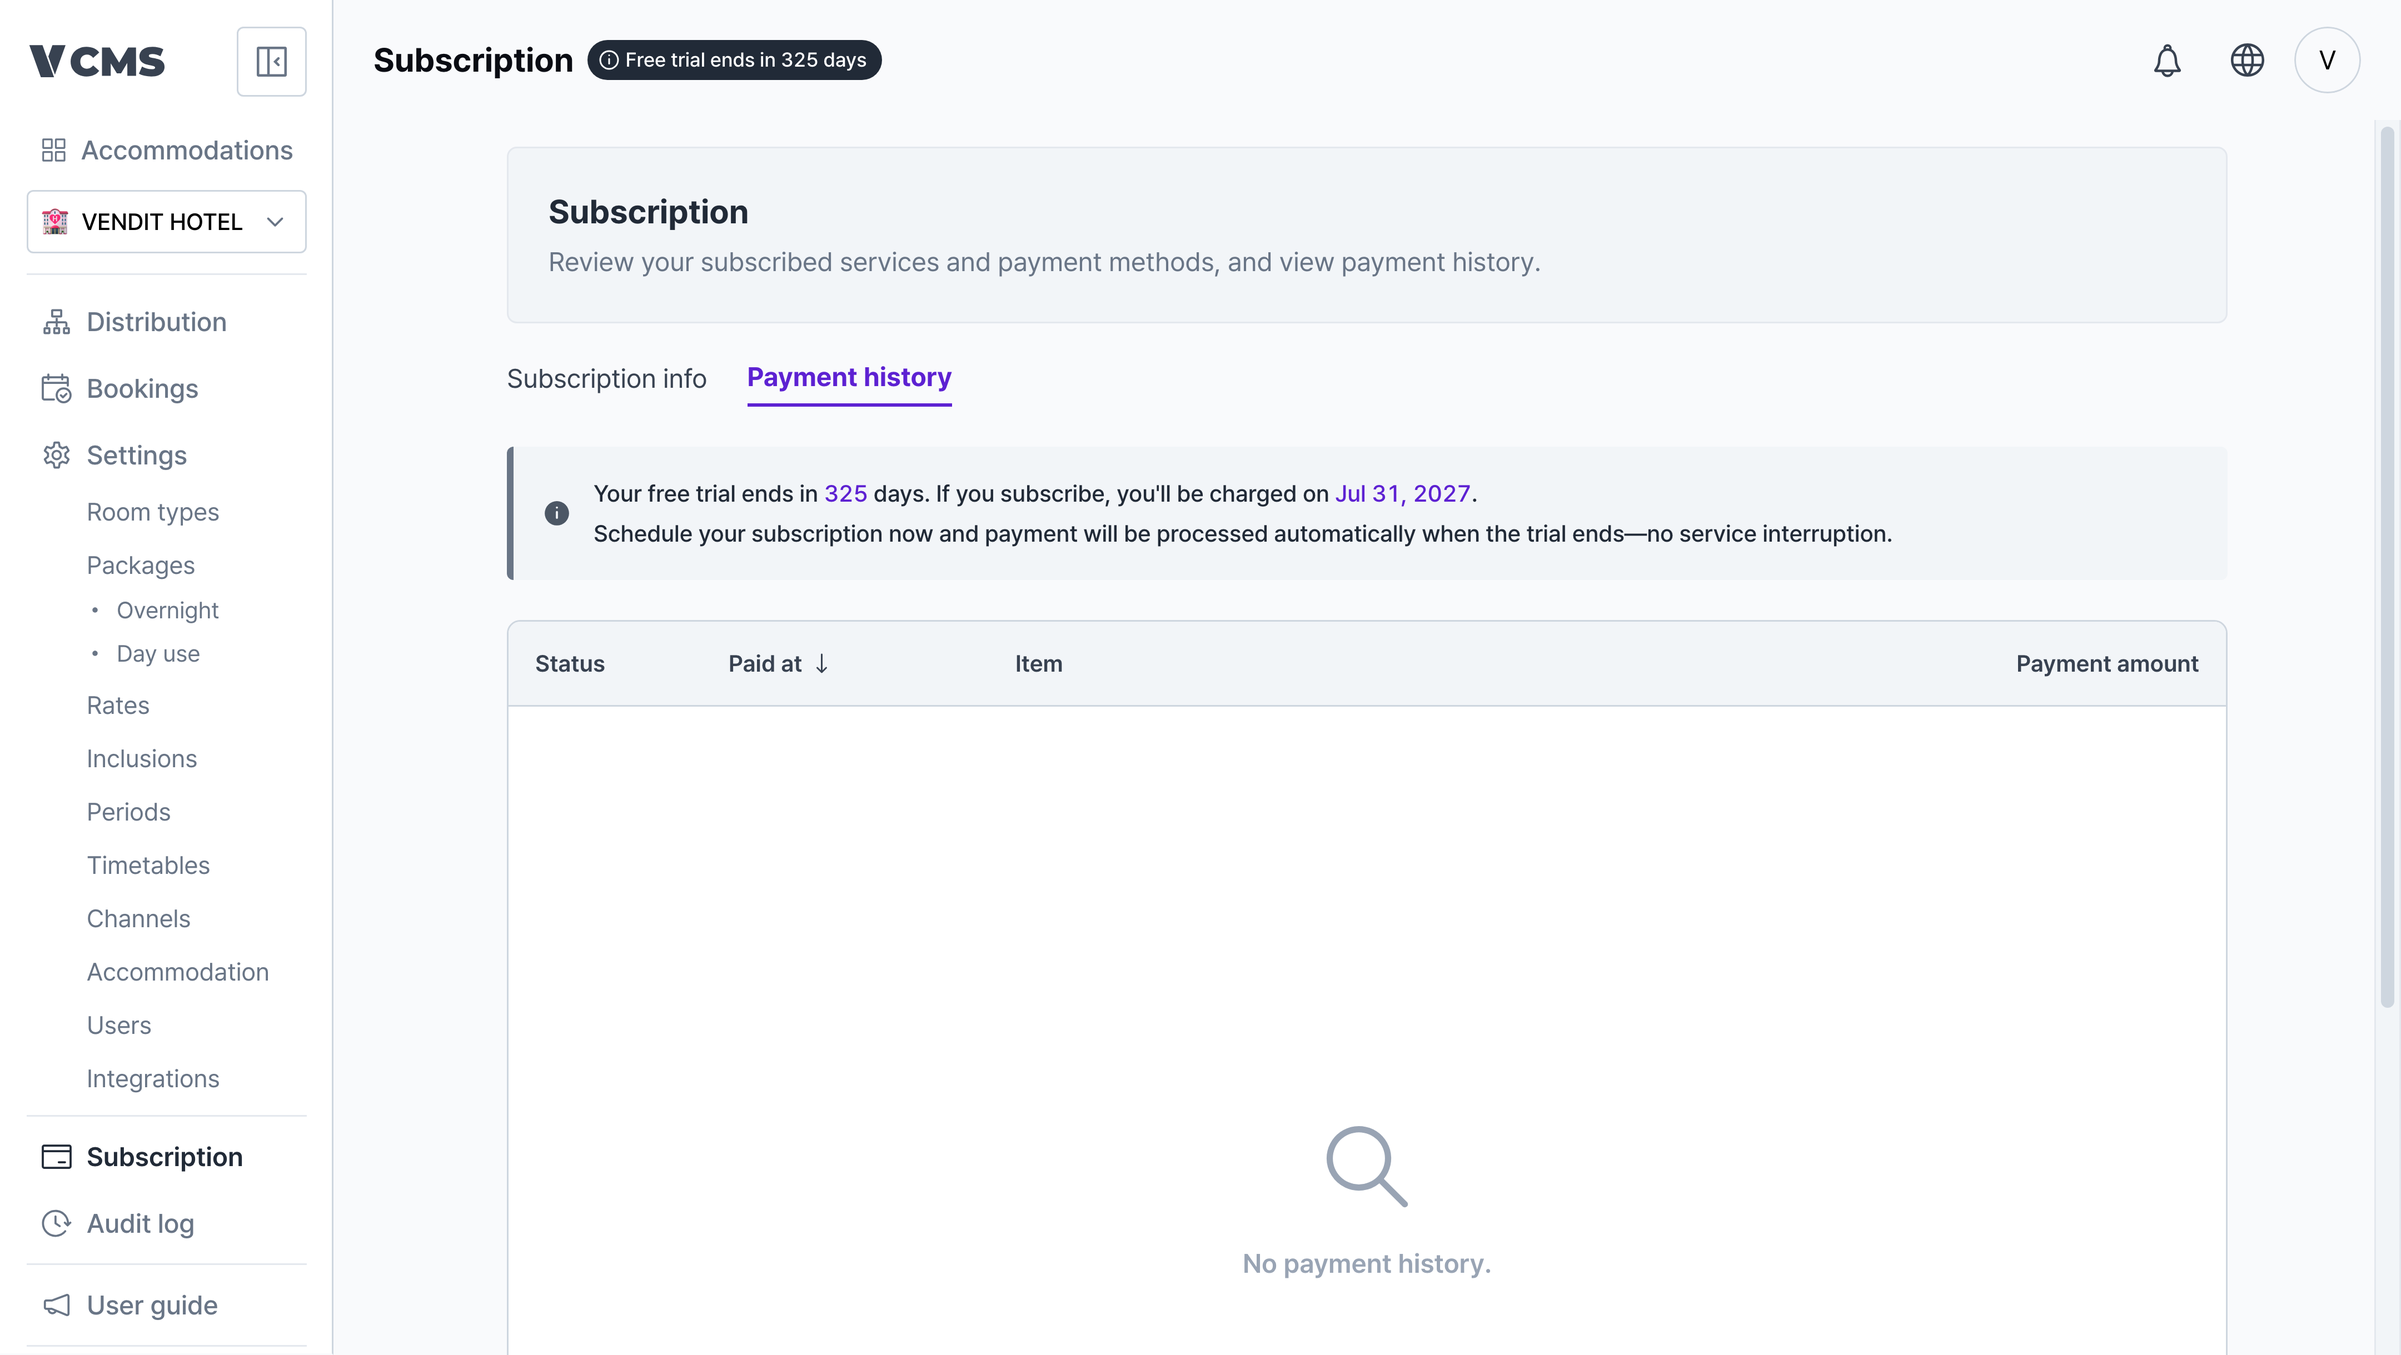
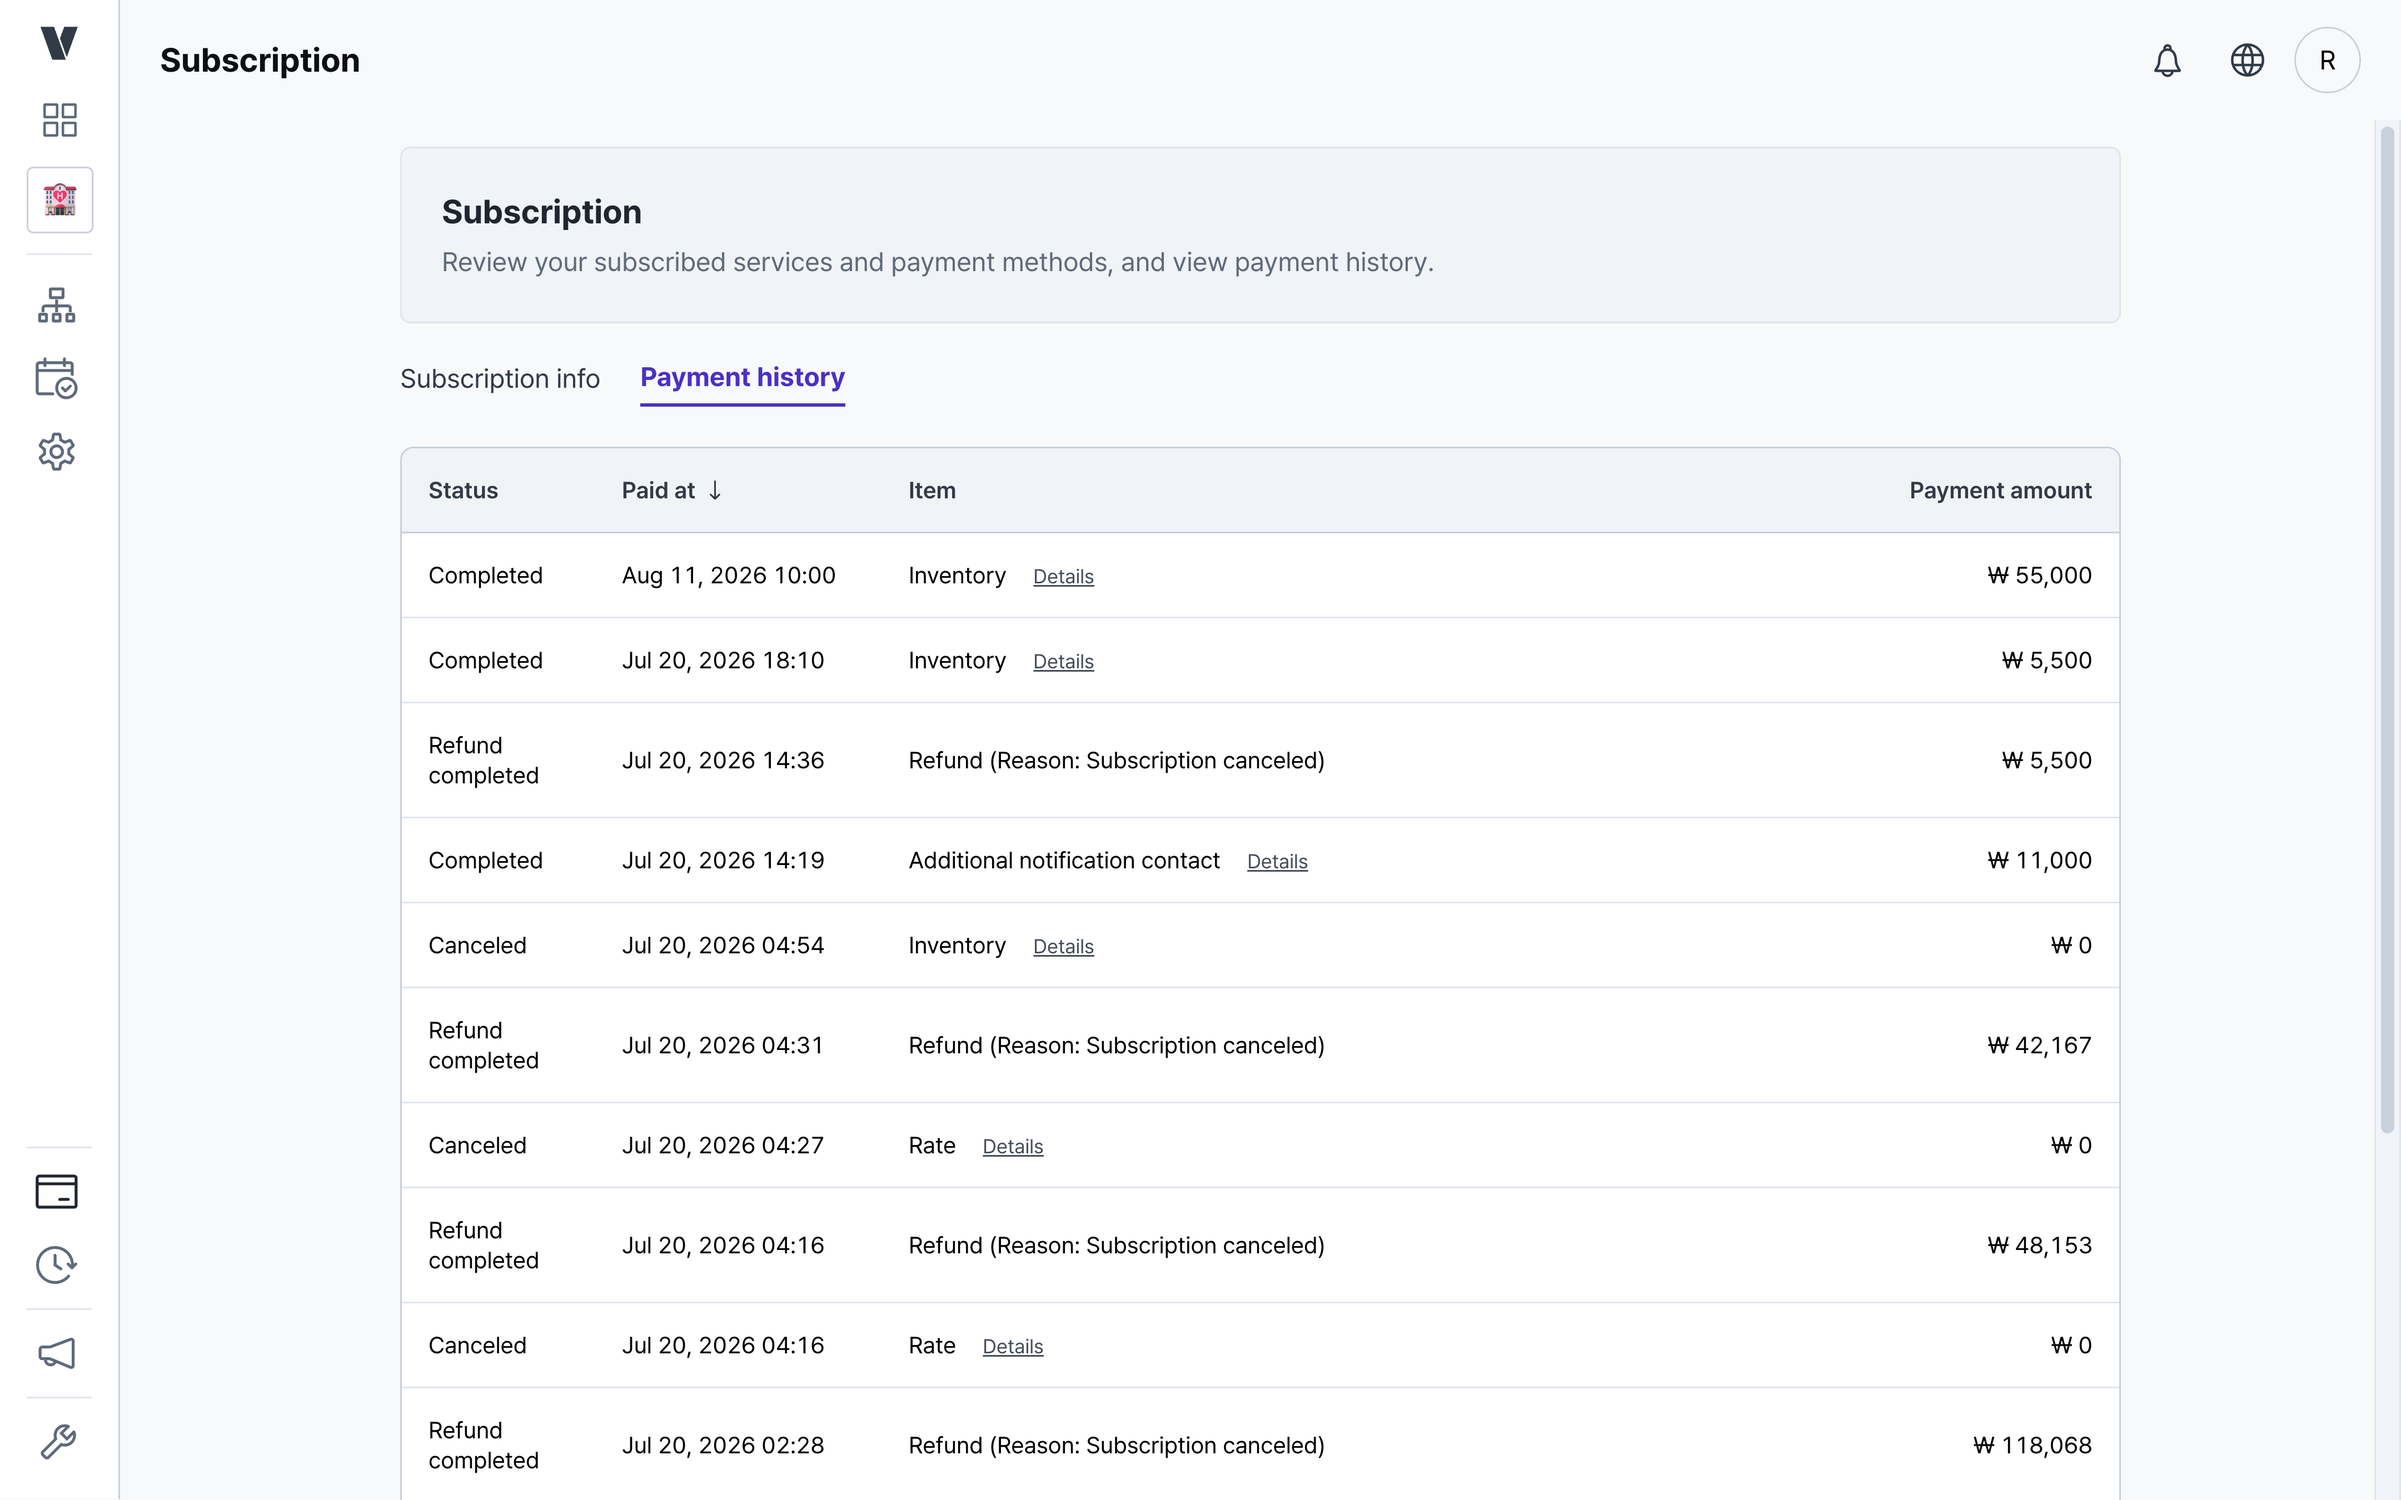
docs(en): shoot the subscription screens on the development server
VENDIT HOTEL is on a free trial, so its subscription page has no details
modal, no payment card and no payment history. Dean opened a development
account that is actually subscribed, and these came from there:

    구독-서비스구독-2        -> en-subscription-service
    Subscription-Register-Card -> en-subscription-payment-method
    구독-결제일변경          -> en-subscription-change-payment-date
    구독-결제내역-상세       -> en-subscription-history-detail
    en-subscription / en-subscription-history  reshot against a live subscription

The DEVELOPMENT badge is hidden before the shutter, and the card issuer is
blurred like every other piece of personal data. Nothing was saved: the
modals were opened and photographed, never confirmed.

The sidebar collapses in every modal shot. That is the app's own behaviour
when a dialog opens, and the Korean originals show the same thing.

Three are still missing. 구독 상세 정보 and 구독 관리 need an account with
Inventory & rate actually subscribed, and this one has it under Available
services. 구독-서비스구독-연간결제 needs an annual payment toggle that the
current build's Service subscription modal does not have.

cdp_capture gains ATTACH mode, which drives a window someone else logged
into instead of launching its own. It has to call Page.bringToFront first:
a background tab accepts navigation and JS but swallows real mouse events,
which is why the first attach run came back with every modal shut.

Claude-Session: https://claude.ai/code/session_0174Xsm4qtXTo7DBJ7dRfTh6

diff --git a/scripts/cdp_capture.py b/scripts/cdp_capture.py
@@ -29,6 +29,10 @@ import websockets  # type: ignore
 CHROME = "/Applications/Google Chrome.app/Contents/MacOS/Google Chrome"
 PROFILE = os.path.expanduser(os.environ.get("VCMS_CAPTURE_PROFILE", "~/.vcms-capture-profile"))
 PORT = int(os.environ.get("CDP_PORT", "9333"))
+# ATTACH=1 이면 크롬을 새로 띄우지 않고 이미 열려 있는 창에 붙는다.
+# Dean 이 직접 로그인해 놓은 창(개발 서버 등)을 그대로 쓰려고 있다.
+ATTACH = os.environ.get("ATTACH") == "1"
+TAB_MATCH = os.environ.get("TAB_MATCH", "")
 WIDTH = int(os.environ.get("WIN_W", "1440"))
 HEIGHT = int(os.environ.get("WIN_H", "900"))
 SCALE = int(os.environ.get("SCALE", "3"))
@@ -107,10 +111,13 @@ def page_ws():
     import urllib.request
     with urllib.request.urlopen(f"http://127.0.0.1:{PORT}/json/list") as r:
         targets = json.load(r)
-    for t in targets:
-        if t.get("type") == "page":
-            return t["webSocketDebuggerUrl"]
-    raise SystemExit("page 타깃을 못 찾았다")
+    pages = [t for t in targets if t.get("type") == "page"]
+    if TAB_MATCH:
+        pages = [t for t in pages
+                 if TAB_MATCH in t.get("url", "") or TAB_MATCH in t.get("title", "")]
+    if not pages:
+        raise SystemExit(f"page 타깃을 못 찾았다 (TAB_MATCH={TAB_MATCH!r})")
+    return pages[0]["webSocketDebuggerUrl"]
 
 
 class CDP:
@@ -178,11 +185,17 @@ async def run(jobs, outdir):
         cdp = CDP(ws)
         await cdp.send("Page.enable")
         await cdp.send("Runtime.enable")
+        if ATTACH:
+            # 백그라운드 탭은 실제 마우스 이벤트를 받아도 아무 일이 없다. 앞으로 꺼내야 한다.
+            await cdp.send("Page.bringToFront")
+            await asyncio.sleep(0.4)
+            await cdp.send("Emulation.setDeviceMetricsOverride", width=WIDTH, height=HEIGHT,
+                           deviceScaleFactor=SCALE, mobile=False)
         last_url = None
         for job in jobs:
             name = job["name"]
             try:
-                if job["url"] != last_url or job.get("reload", True):
+                if job.get("url") and (job["url"] != last_url or job.get("reload", True)):
                     await cdp.send("Page.navigate", url=job["url"])
                     await asyncio.sleep(job.get("load", 4.0))
                     last_url = job["url"]
@@ -248,6 +261,8 @@ async def run(jobs, outdir):
             except Exception as e:
                 failed.append((name, str(e)[:120]))
                 print(f"  FAIL {name}  {e}")
+        if ATTACH:
+            await cdp.send("Emulation.clearDeviceMetricsOverride")
     return done, failed
 
 
@@ -255,15 +270,16 @@ def main():
     jobs = json.load(open(sys.argv[1], encoding="utf-8"))
     outdir = sys.argv[2] if len(sys.argv) > 2 else "/tmp/vcms-shots"
     os.makedirs(outdir, exist_ok=True)
-    proc = launch()
+    proc = None if ATTACH else launch()
     try:
         done, failed = asyncio.run(run(jobs, outdir))
     finally:
-        proc.send_signal(signal.SIGTERM)
-        time.sleep(1)
-        lock = os.path.join(PROFILE, "SingletonLock")
-        if os.path.exists(lock):
-            os.remove(lock)
+        if proc is not None:
+            proc.send_signal(signal.SIGTERM)
+            time.sleep(1)
+            lock = os.path.join(PROFILE, "SingletonLock")
+            if os.path.exists(lock):
+                os.remove(lock)
     print(f"\n완료 {len(done)} / 실패 {len(failed)}")
     for n, e in failed:
         print(f"  {n}: {e}")

diff --git a/scripts/shoot_now.py b/scripts/shoot_now.py
@@ -4,7 +4,7 @@
 scripts/open-window.sh 로 띄운 창에 CDP 로 붙는다. 헤드리스 캡처와 달리
 페이지를 내가 조작하지 않는다. 화면에 보이는 그대로만 찍는다.
 
-    python3 scripts/shoot_now.py <파일명.png> [출력폴더]
+    python3 scripts/shoot_now.py <파일명.png> [출력폴더] [--match=<탭 URL/제목 일부>]
 
 창 크기는 그대로 두고 Emulation 으로 배율만 3배로 올려 찍은 뒤 되돌린다.
 그래서 결과물은 4320x2700 급이고, Dean 화면은 잠깐 다시 그려지는 것 말고는 변화가 없다.
@@ -41,12 +41,14 @@ HIDE_CHAT = """
 """
 
 
-def page_target():
+def page_target(match=None):
     with urllib.request.urlopen(f"http://127.0.0.1:{PORT}/json/list") as r:
         targets = json.load(r)
     pages = [t for t in targets if t.get("type") == "page" and t.get("url", "").startswith("http")]
+    if match:
+        pages = [t for t in pages if match in t.get("url", "") or match in t.get("title", "")]
     if not pages:
-        raise SystemExit(f"열려 있는 페이지 탭이 없다. 포트 {PORT} 에 창이 떠 있나?")
+        raise SystemExit(f"맞는 탭이 없다(match={match}). 포트 {PORT} 에 창이 떠 있나?")
     return pages[0]
 
 
@@ -79,11 +81,13 @@ async def shoot(target, path):
 
 
 def main():
-    name = sys.argv[1]
-    outdir = sys.argv[2] if len(sys.argv) > 2 else "/tmp/vcms-shots"
+    args = [a for a in sys.argv[1:] if not a.startswith("--")]
+    match = next((a.split("=", 1)[1] for a in sys.argv[1:] if a.startswith("--match=")), None)
+    name = args[0]
+    outdir = args[1] if len(args) > 1 else "/tmp/vcms-shots"
     os.makedirs(outdir, exist_ok=True)
     path = os.path.join(outdir, name)
-    t = page_target()
+    t = page_target(match)
     print(f"찍는 중: {t.get('title', '')[:50]}  {t.get('url', '')[:80]}")
     asyncio.run(shoot(t, path))
     print(f"  ok  {path}  {os.path.getsize(path) // 1024}KB")
